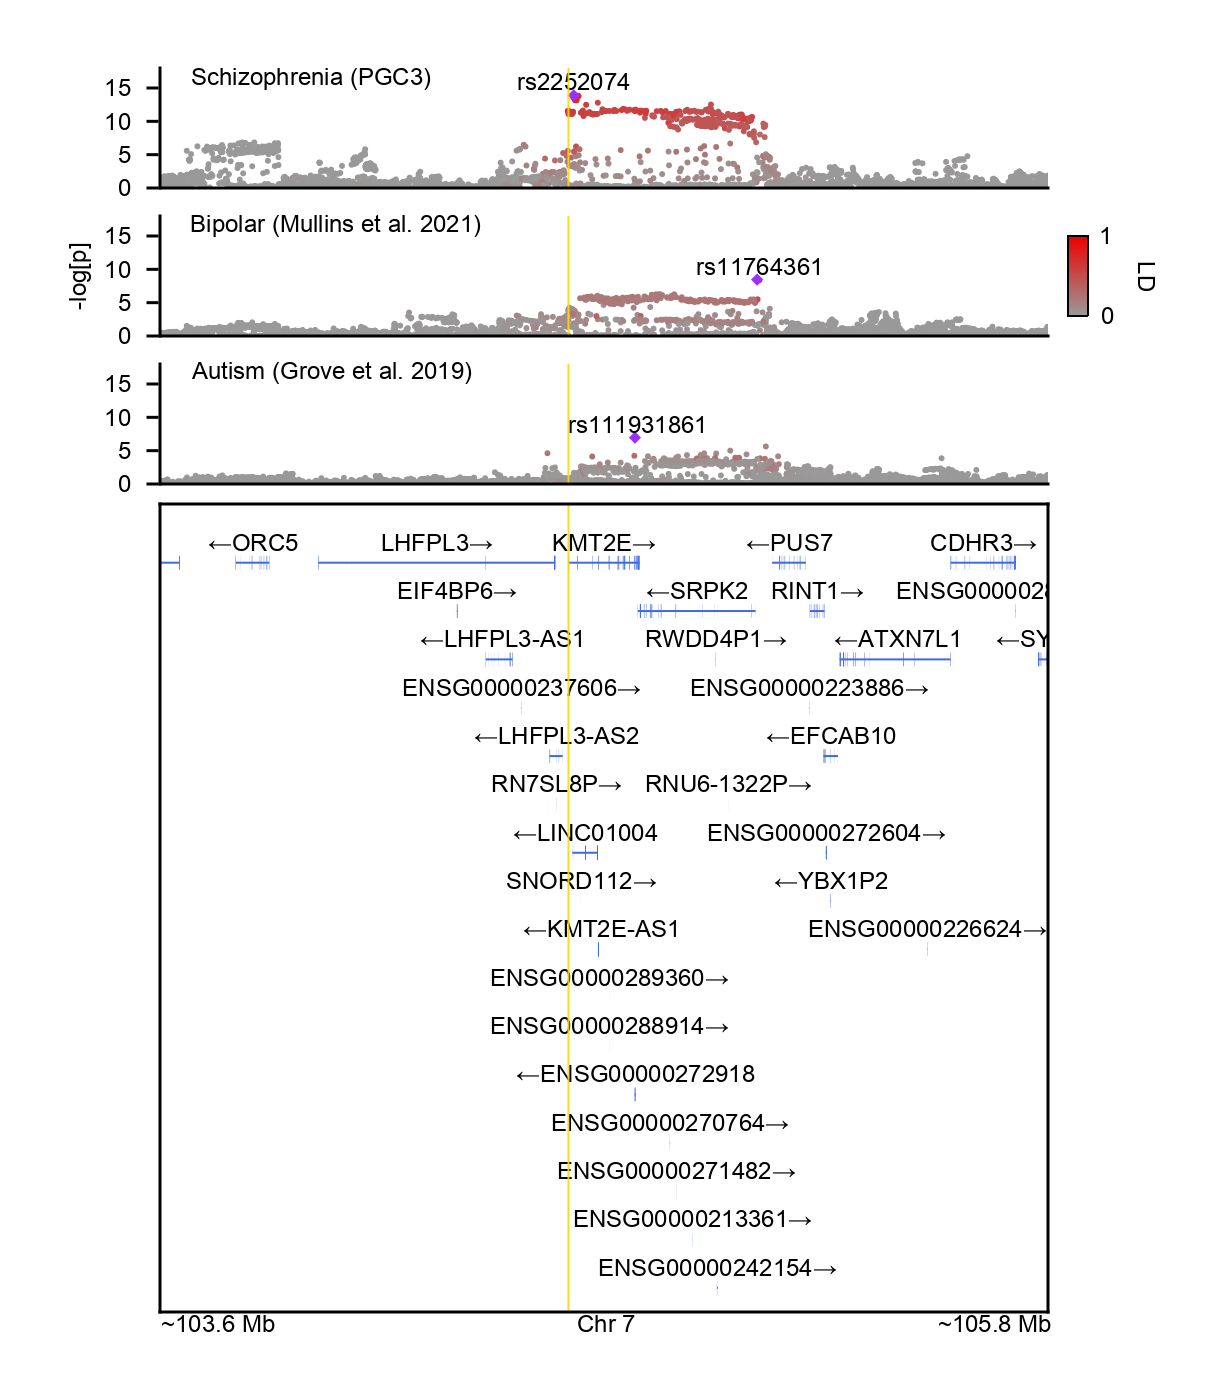
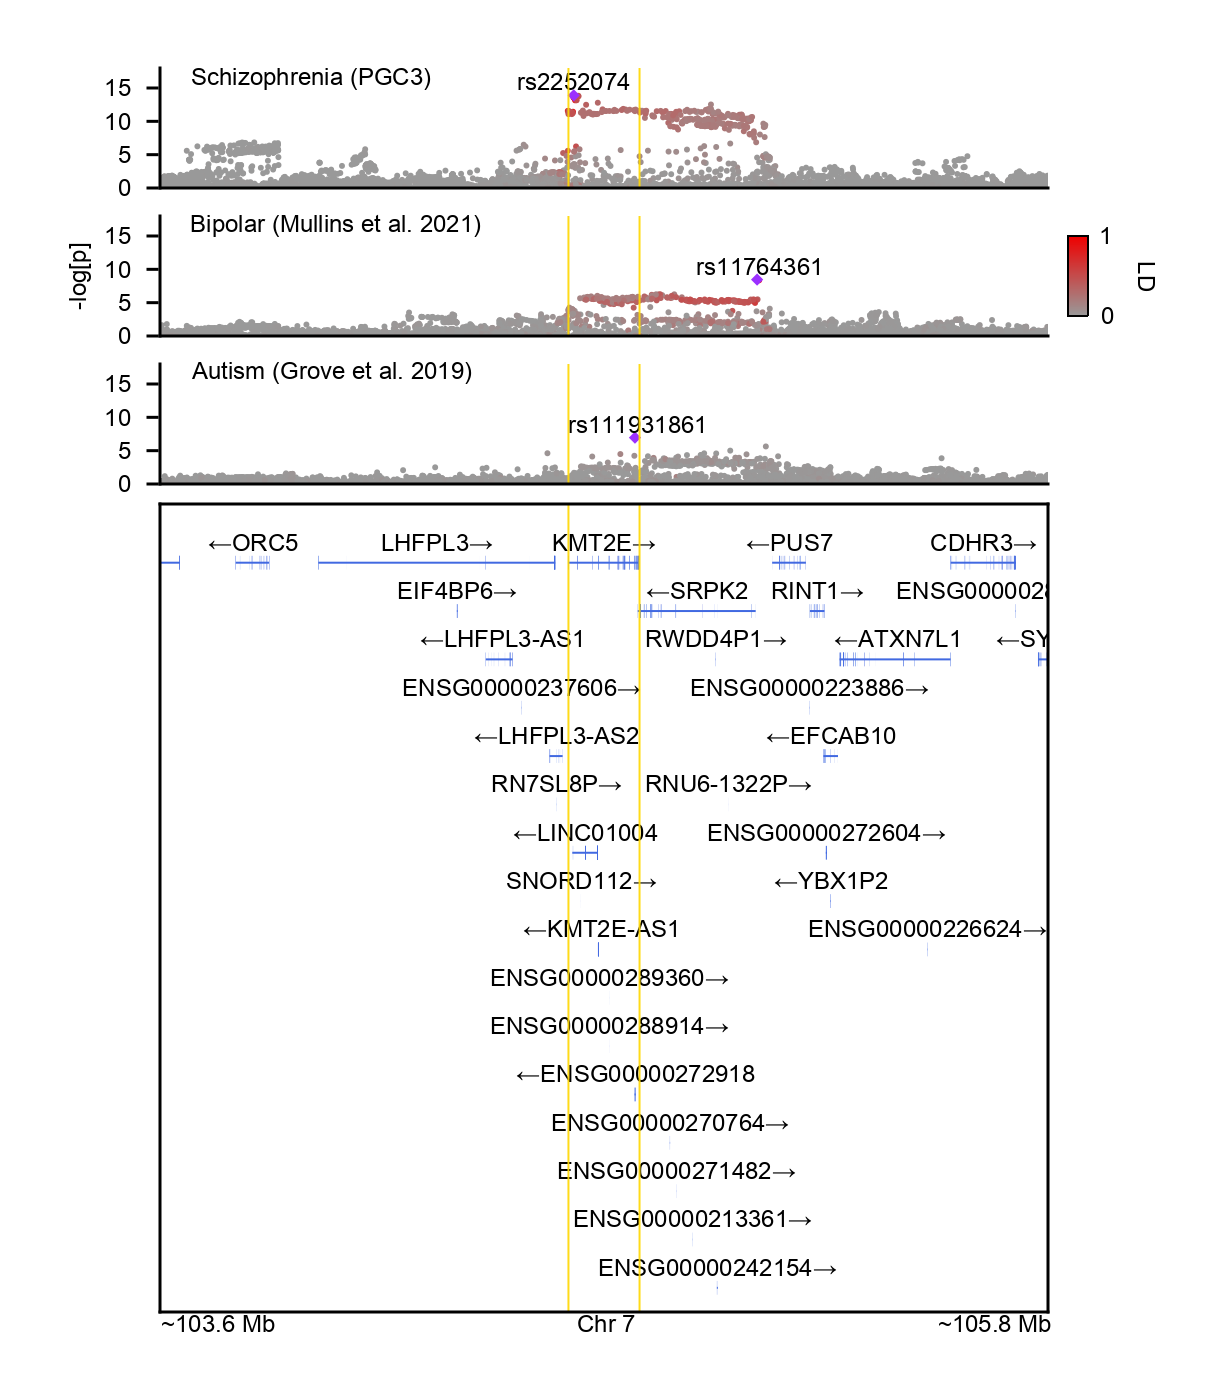
make locuszoom plot faster

diff --git a/README.md b/README.md
@@ -13,10 +13,12 @@ pkg> add https://github.com/mmkim1210/GeneticsMakie.jl.git
 
 ## Examples
 ```julia
-using GeneticsMakie
-using Makie, CairoMakie, Makie.GeometryBasics, CSV, DataFrames, SnpArrays, Statistics, ColorSchemes
+using GeneticsMakie, Makie, CairoMakie, Makie.GeometryBasics, CSV, DataFrames, SnpArrays, Statistics
 
 const GM = GeneticsMakie
+CairoMakie.activate!(type = "png")
+set_theme!(font = "Arial")
+
 isdir("data") || mkdir("data")
 isdir("figs") || mkdir("figs")
 
@@ -24,34 +26,35 @@ isdir("figs") || mkdir("figs")
 gencode = let
     url = "https://ftp.ebi.ac.uk/pub/databases/gencode/Gencode_human/release_39/GRCh37_mapping/gencode.v39lift37.annotation.gtf.gz"
     file = last(split(url, "/"))
-    isfile("data/$(file)") || download(url, "data/$(file)")
+    isdir("data/gencode") || mkdir("data/gencode")
+    isfile("data/gencode/$(file)") || download(url, "data/gencode/$(file)")
     header = ["seqnames", "source", "feature", "start", "end", "score", "strand", "phase", "info"]
-    CSV.File("data/$(file)"; delim = "\t", skipto = 6, header = header) |> DataFrame
+    CSV.File("data/gencode/$(file)"; delim = "\t", skipto = 6, header = header) |> DataFrame
 end
+size(gencode) # 3_247_110 features
 
 # Parse GENCODE
 GM.parsegtf!(gencode)
 
 # Focus on KMT2E gene as an example
+gene, window = "KMT2E", 1e6
 chr, start, stop = let
-    ind = findfirst(isequal("KMT2E"), gencode.gene_name)
+    ind = findfirst(isequal(gene), gencode.gene_name)
     gencode.seqnames[ind], gencode.start[ind], gencode[ind, :end]
 end
-range1 = start - 1e6
-range2 = stop + 1e6
+range1 = start - window
+range2 = stop + window
 
 # Visualize 1 Mb window around KMT2E
-set_theme!(font = "Arial")
 let
     f = Figure(resolution = (306, 250))
     ax = Axis(f[1, 1])
     rs = GM.plotgenes!(ax, chr, range1, range2, gencode; height = 0.1)
     vspan!(ax, start, stop, color = (:gray, 0.2))
-    Label(f[1, 1, Bottom()], "~$(round(range1 / 1e6; digits = 1)) Mb", textsize = 6, halign = :left)
-    Label(f[1, 1, Bottom()], "Chr $(chr)", textsize = 6, halign = :center)
-    Label(f[1, 1, Bottom()], "~$(round(range2 / 1e6; digits = 1)) Mb", textsize = 6, halign = :right)
+    GM.labelgenome(f[1, 1, Bottom()], chr, range1, range2)
     rowsize!(f.layout, 1, rs)
-    save("figs/KMT2E-gene.png", f, px_per_unit = 4)
+    save("figs/$(gene)-gene.png", f, px_per_unit = 4)
+    display("image/png", read("figs/$(gene)-gene.png"))
 end
 ```
 <p align="center"><img width="70%" style="border-radius: 5px;" src="figs/KMT2E-gene.png"></p>
@@ -61,12 +64,11 @@ end
 let
     f = Figure(resolution = (306, 306))
     ax = Axis(f[1, 1])
-    rs, chr, range1, range2 = GM.plotisoforms!(ax, "KMT2E", gencode; height = 0.1)
-    Label(f[1, 1, Bottom()], "~$(round(range1 / 1e6; digits = 1)) Mb", textsize = 6, halign = :left)
-    Label(f[1, 1, Bottom()], "Chr $(chr)", textsize = 6, halign = :center)
-    Label(f[1, 1, Bottom()], "~$(round(range2 / 1e6; digits = 1)) Mb", textsize = 6, halign = :right)
+    rs, chr, range1, range2 = GM.plotisoforms!(ax, gene, gencode; height = 0.1)
+    GM.labelgenome(f[1, 1, Bottom()], chr, range1, range2)
     rowsize!(f.layout, 1, rs)
-    save("figs/KMT2E-isoform.png", f, px_per_unit = 4)
+    save("figs/$(gene)-isoform.png", f, px_per_unit = 4)
+    display("image/png", read("figs/$(gene)-isoform.png"))
 end
 ```
 <p align="center"><img width="70%" style="border-radius: 5px;" src="figs/KMT2E-isoform.png"></p>
@@ -75,36 +77,38 @@ end
 # Visualize KMT2E isoforms w/ expression
 let
     f = Figure(resolution = (306, 140))
-    ax = Axis(f[1, 1])
-    rs, chr, range1, range2 = GeneticsMakie.plotisoforms!(ax, "KMT2E", gencode; height = 0.1, textpos = :left)
-    hidespines!(ax)
+    axs = [Axis(f[1, i]) for i in 1:2]
+    rs, chr, range1, range2 = GeneticsMakie.plotisoforms!(axs[1], gene, gencode; height = 0.1, textpos = :left)
+    hidespines!(axs[1],)
     rowsize!(f.layout, 1, rs)
-    # Generate random single-cell expression levels 
-    expr = abs.(randn(21, 6))
+    # Generate random single-cell expression levels
+    n = length(unique(gencode[(gencode.feature .== "transcript") .& (gencode.gene_name .== gene), :transcript_id]))
+    expr = abs.(randn(n, 6))
     expr = expr / maximum(expr)
     cell = ["Exc", "In", "End", "Mic", "OPC", "Oligo"]
-    ax2 = Axis(f[1, 2])
-    c = [Circle(Point2f(0.125 * j, 0.95 - (i - 1) * 0.125), expr[i, j] * 0.05) for i in 1:21, j in 1:6]
-    poly!(vec(c), color = vec(expr), colormap = :Purples_9)
-    ax2.xticks = ([0.125 * j for j in 1:6], cell)
-    ax2.xticklabelsize = 4
-    ax2.xticklabelrotation = π / 2
-    ax2.xaxisposition = :top
-    ax2.xticklabelpad = 0
-    ax2.aspect = DataAspect()
-    xlims!(ax2, 0, 0.875)
-    ylims!(ax2, -1.625, 1.05)
-    colsize!(f.layout, 2, Aspect(1, 0.875 / 2.675))
-    hidespines!(ax2)
-    hidexdecorations!(ax2, ticklabels = false)
-    hideydecorations!(ax2)
+    c = [Circle(Point2f(0.125 * j, 0.95 - (i - 1) * 0.125), expr[i, j] * 0.05) for i in 1:n, j in 1:6]
+    poly!(axs[2], vec(c), color = vec(expr), colormap = :Purples_9)
+    axs[2].xticks = ([0.125 * j for j in 1:6], cell)
+    axs[2].xticklabelsize = 4
+    axs[2].xticklabelrotation = π / 2
+    axs[2].xaxisposition = :top
+    axs[2].xticklabelpad = 0
+    axs[2].aspect = DataAspect()
+    xlims!(axs[2], 0, 0.125 * 7)
+    ymin, ymax = 0.875 - (n - 1) * 0.125, 1.05
+    ylims!(axs[2], ymin, ymax)
+    colsize!(f.layout, 2, Aspect(1, 0.125 * 7 / (ymax - ymin)))
+    hidespines!(axs[2])
+    hidexdecorations!(axs[2], ticklabels = false)
+    hideydecorations!(axs[2])
     Colorbar(f[2, 2], limits = (0, 100), ticks = 0:100:100, ticklabelsize = 3,
         tellwidth = false, vertical = false, flipaxis = false,
         colormap = :Purples_9, label = "% expressed", labelsize = 4,
         width = 10, spinewidth = 0.25, tickwidth = 0, height = 2, ticksize = 0)
     colgap!(f.layout, 2)
     rowgap!(f.layout, 5)
-    save("KMT2E-expression.png", f, px_per_unit = 4)
+    save("figs/$(gene)-expression.png", f, px_per_unit = 4)
+    display("image/png", read("figs/$(gene)-expression.png"))
 end
 ```
 <p align="center"><img width="85%" style="border-radius: 5px;" src="figs/KMT2E-expression.png"></p>
@@ -115,49 +119,51 @@ kgp = let
     beagle = "http://bochet.gcc.biostat.washington.edu/beagle/1000_Genomes_phase3_v5a"
     url = joinpath(beagle, "b37.vcf/chr$(chr).1kg.phase3.v5a.vcf.gz")
     vcf = last(split(url, "/"))
-    isfile("data/$(vcf)") || download(url, "data/$(vcf)")
+    isdir("data/1kg") || mkdir("data/1kg")
+    isfile("data/1kg/$(vcf)") || download(url, "data/1kg/$(vcf)")
     # Convert vcf file to plink bed file (this step takes a while)
-    isfile("data/$(replace(vcf, ".vcf.gz" => ".bed"))") || vcf2plink("data/$(vcf)", "data/$(replace(vcf, ".vcf.gz" => ""))")
+    isfile("data/1kg/$(replace(vcf, ".vcf.gz" => ".bed"))") || vcf2plink("data/1kg/$(vcf)", "data/1kg/$(replace(vcf, ".vcf.gz" => ""))")
     # Download sample metadata
     url = joinpath(beagle, "/sample_info/integrated_call_samples_v3.20130502.ALL.panel")
     meta = last(split(url, "/")) 
-    isfile("data/$(meta)") || download(url, "data/$(meta)")
+    isfile("data/1kg/$(meta)") || download(url, "data/1kg/$(meta)")
     # Subset data to the genomic region of interest and European samples
-    kgp = SnpData("data/$(replace(vcf, ".vcf.gz" => ""))")
-    meta = CSV.read("data/$(meta)", DataFrame)
+    kgp = SnpData("data/1kg/$(replace(vcf, ".vcf.gz" => ""))")
+    meta = CSV.read("data/1kg/$(meta)", DataFrame)
     eur = meta.sample[meta.super_pop .== "EUR"]
     colinds = findall((kgp.snp_info.position .>= range1) .& (kgp.snp_info.position .<= range2))
     rowinds = findall(in(eur), kgp.person_info.iid)
     file = replace(vcf, ".vcf.gz" => ".eur")
-    SnpArrays.filter(kgp, rowinds, colinds; des = "data/$(file)")
+    SnpArrays.filter(kgp, rowinds, colinds; des = "data/1kg/$(file)")
     # Apply minor allele frequency > 0.05 filter
-    kgp = SnpData("data/$(file)")
+    kgp = SnpData("data/1kg/$(file)")
     colinds = SnpArrays.filter(kgp.snparray; min_maf = 0.05)[2]
     file = file * ".maf0.05"
-    SnpArrays.filter(kgp, trues(size(kgp)[1]), colinds; des = "data/$(file)")
-    SnpData("data/$(file)")
+    SnpArrays.filter(kgp, trues(size(kgp)[1]), colinds; des = "data/1kg/$(file)")
+    SnpData("data/1kg/$(file)")
 end 
-size(kgp) # 503 European individuals + 5,574 SNPs
+size(kgp) # 503 European individuals + 5_574 SNPs
 
-geno = convert(Matrix{Float64}, kgp.snparray)
-LD = cor(geno, dims = 1)
-LD = LD.^2 
+LD = let
+    geno = convert(Matrix{Float64}, kgp.snparray)
+    LD = cor(geno, dims = 1)
+    LD.^2
+end
 
 # Visualize LD for KMT2E locus
 @time let
     f = Figure(resolution = (306, 200))
     ax = Axis(f[1, 1])
-    GM.plotld!(ax, LD)
-    Label(f[1, 1, Top()], "~$(round(range1 / 1e6; digits = 1)) Mb", textsize = 6, halign = :left)
-    Label(f[1, 1, Top()], "Chr $(chr)", textsize = 6, halign = :center)
-    Label(f[1, 1, Top()], "~$(round(range2 / 1e6; digits = 1)) Mb", textsize = 6, halign = :right)
+    GM.plotld!(ax, LD; color = "green")
+    GM.labelgenome(f[1, 1, Top()], chr, range1, range2)
     rowsize!(f.layout, 1, Aspect(1, 0.5))
     Colorbar(f[2, 1], limits = (0, 1), tellwidth = false, ticklabelsize = 6,
-        colormap = cgrad(ColorSchemes.Blues_9, 9, categorical = true),
+        colormap = cgrad(:Greens_9, 9, categorical = true),
         label = "LD", labelsize = 6, vertical = false, flipaxis = false,
         width = 40, spinewidth = 0.5, tickwidth = 0.5, height = 5, ticksize = 3)
     rowgap!(f.layout, 5)
-    save("figs/KMT2E-LD.png", f, px_per_unit = 4)
+    save("figs/$(gene)-LD.png", f, px_per_unit = 4)
+    display("image/png", read("figs/$(gene)-LD.png"))
 end
 ```
 <p align="center"><img width="80%" style="border-radius: 5px;" src="figs/KMT2E-LD.png"></p>
@@ -171,17 +177,19 @@ gwas = let
     for key in keys(gwas)
         url = gwas[key][1]
         file = gwas[key][2]
-        isfile("data/$(file)") || download(url, "data/$(file)")
+        isdir("data/gwas") || mkdir("data/gwas")
+        isfile("data/gwas/$(file)") || download(url, "data/gwas/$(file)")
     end
-    scz = CSV.File("data/$(gwas["scz"][2])"; delim = "\t") |> DataFrame
-    dropmissing!(scz) # row 5,328,757 is funky and contains missing values
-    bd = CSV.File("data/$(gwas["bd"][2])", delim = "\t", skipto = 74, 
+    scz = CSV.File("data/gwas/$(gwas["scz"][2])"; delim = "\t") |> DataFrame
+    dropmissing!(scz, disallowmissing = true) # row 5,328,757 is funky and contains missing values
+    bd = CSV.File("data/gwas/$(gwas["bd"][2])", delim = "\t", skipto = 74, 
         header = ["CHROM", "POS", "ID", "A1", "A2", "BETA", "SE", "P", "NGT", 
             "FCAS", "FCON", "IMPINFO", "NEFFDIV2", "NCAS", "NCON", "DIRE"]) |> DataFrame
-    asd = CSV.File("data/$(gwas["asd"][2])"; delim = "\t") |> DataFrame
+    asd = CSV.File("data/gwas/$(gwas["asd"][2])"; delim = "\t") |> DataFrame
     [scz, bd, asd]
 end
 titles = ["Schizophrenia (PGC3)", "Bipolar (Mullins et al. 2021)", "Autism (Grove et al. 2019)"]
+GM.mungesumstats!(gwas)
 
 # Visualize GWAS results for KMT2E locus
 let
@@ -207,8 +215,10 @@ let
     colgap!(f.layout, 5)
     for i in 1:(n + 1)
         vlines!(axs[i], start, color = (:gold, 0.9), linewidth = 0.5)
+        vlines!(axs[i], stop, color = (:gold, 0.9), linewidth = 0.5)
     end
-    save("figs/KMT2E-locuszoom.png", f, px_per_unit = 4)
+    save("figs/$(gene)-locuszoom.png", f, px_per_unit = 4)
+    display("image/png", read("figs/$(gene)-locuszoom.png"))
 end
 ```
 <p align="center"><img width="70%" style="border-radius: 5px;" src="figs/KMT2E-locuszoom.png"></p>
@@ -228,6 +238,7 @@ end
     end
     rowgap!(f.layout, 10)
     save("figs/manhattan.png", f, px_per_unit = 4)
+    display("image/png", read("figs/manhattan.png"))
 end
 ```
 <p align="center"><img width="75%" style="border-radius: 5px;" src="figs/manhattan.png"></p>
@@ -250,6 +261,7 @@ end
     Label(f[2, 1, Bottom()], text = "$(titles[2])", textsize = 8)
     rowgap!(f.layout, 1)
     save("figs/miami.png", f, px_per_unit = 4)
+    display("image/png", read("miami.png"))
 end
 ```
 <p align="center"><img width="75%" style="border-radius: 5px;" src="figs/miami.png"></p>
@@ -275,6 +287,7 @@ end
     rowgap!(f.layout, 1, 0)
     rowgap!(f.layout, 2, 5)
     save("figs/QQ.png", f, px_per_unit = 4)
+    display("image/png", read("figs/QQ.png"))
 end
 ```
 <p align="center"><img width="80%" style="border-radius: 5px;" src="figs/QQ.png"></p>
